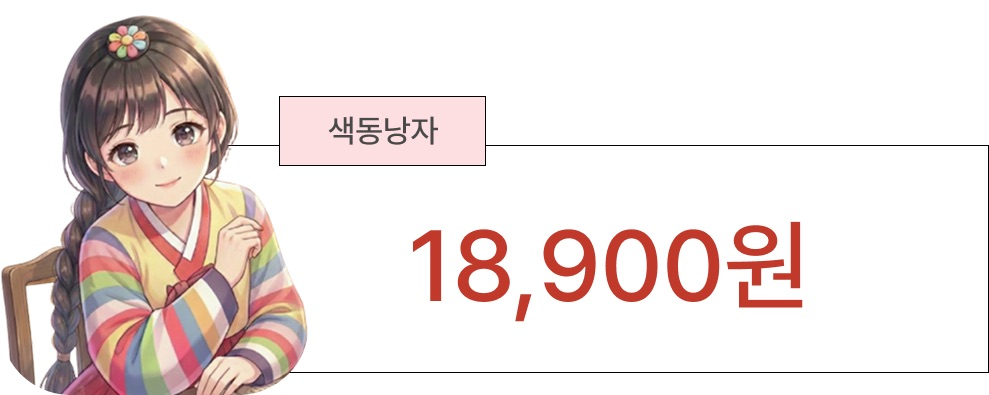
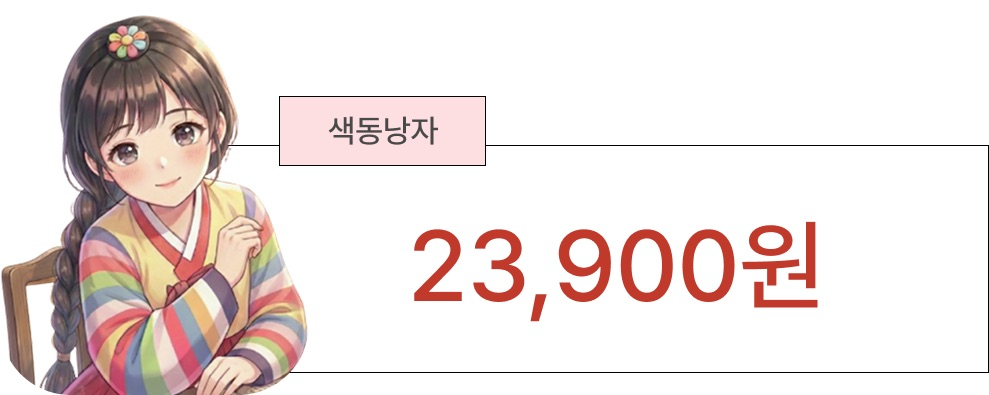
Aaaa

Changed region(s): [[0.3943, 0.5468, 0.8493, 0.8203]]

diff --git a/app/saju-love/result/page.tsx b/app/saju-love/result/page.tsx
@@ -47,9 +47,9 @@ const PAYMENT_CONFIG = {
   clientKey:
     process.env.NEXT_PUBLIC_TOSS_CLIENT_KEY ||
     "live_gck_yZqmkKeP8gBaRKPg1WwdrbQRxB9l",
-  price: 18900,
+  price: 23900,
   discountPrice: 9900,
-  originalPrice: 32900,
+  originalPrice: 44800,
   orderName: "AI 연애 사주 심층 분석",
 };
 
@@ -931,7 +931,7 @@ function SajuLoveResultContent() {
     // 할인 쿠폰 (5000원 할인)
     else if (couponCode === "boniiii" || couponCode === "차세린") {
       setCouponError("");
-      setAppliedCoupon({ code: couponCode, discount: 6000 });
+      setAppliedCoupon({ code: couponCode, discount: 2000 });
 
       // 결제 위젯 금액 업데이트
       if (paymentWidgetRef.current) {

diff --git a/app/saju-love/detail/page.tsx b/app/saju-love/detail/page.tsx
@@ -45,9 +45,9 @@ const PAYMENT_CONFIG = {
   clientKey:
     process.env.NEXT_PUBLIC_TOSS_CLIENT_KEY ||
     "live_gck_yZqmkKeP8gBaRKPg1WwdrbQRxB9l",
-  price: 18900,
+  price: 23900,
   discountPrice: 9900,
-  originalPrice: 32900,
+  originalPrice: 44800,
   orderName: "AI 연애 사주 심층 분석",
 };
 
@@ -343,7 +343,7 @@ function SajuDetailContent() {
     // 할인 쿠폰 (5000원 할인)
     else if (couponCode === "boniiii" || couponCode === "차세린") {
       setCouponError("");
-      setAppliedCoupon({ code: couponCode, discount: 6000 });
+      setAppliedCoupon({ code: couponCode, discount: 2000 });
 
       // 결제 위젯 금액 업데이트
       if (paymentWidgetRef.current) {
